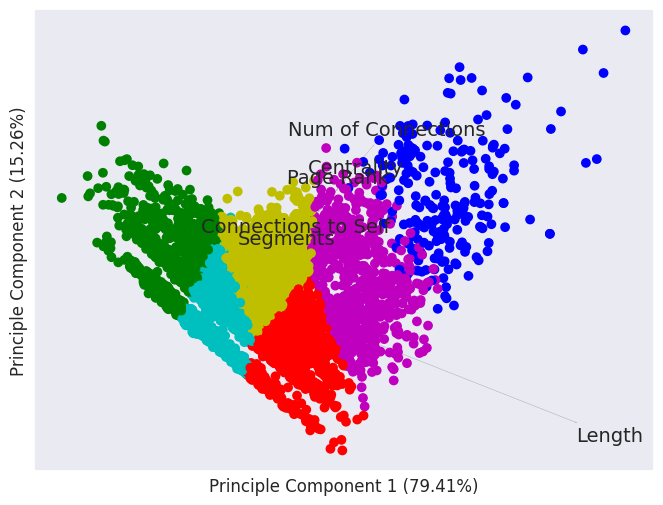
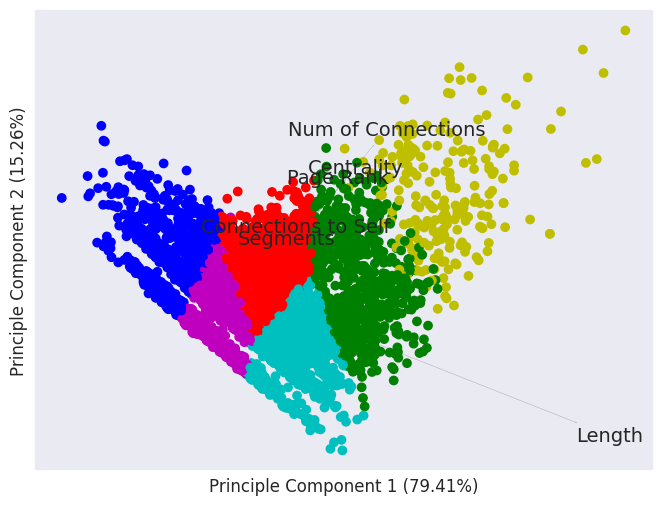
output mean and median length

diff --git a/capstone_roads.py b/capstone_roads.py
@@ -247,6 +247,14 @@ def show_results(list_of_connected_dicts):
 
     k_cols = [tabl_cols[i] for i in range(6)]
 
+    # now combining results together
+    df["kmeans_result"] = kmeans.labels_
+
+    for j in range(6):
+        ic(df[df["kmeans_result"] == j].loc[:, "length"].mean())
+        ic(len(df[df["kmeans_result"] == j].loc[:, "length"]))
+        ic(df[df["kmeans_result"] == j].loc[:, "length"].median())
+
     # https://stackoverflow.com/questions/39216897/plot-pca-loadings-and-loading-in-biplot-in-sklearn-like-rs-autoplot
     # from Qiyun Zhu
 
